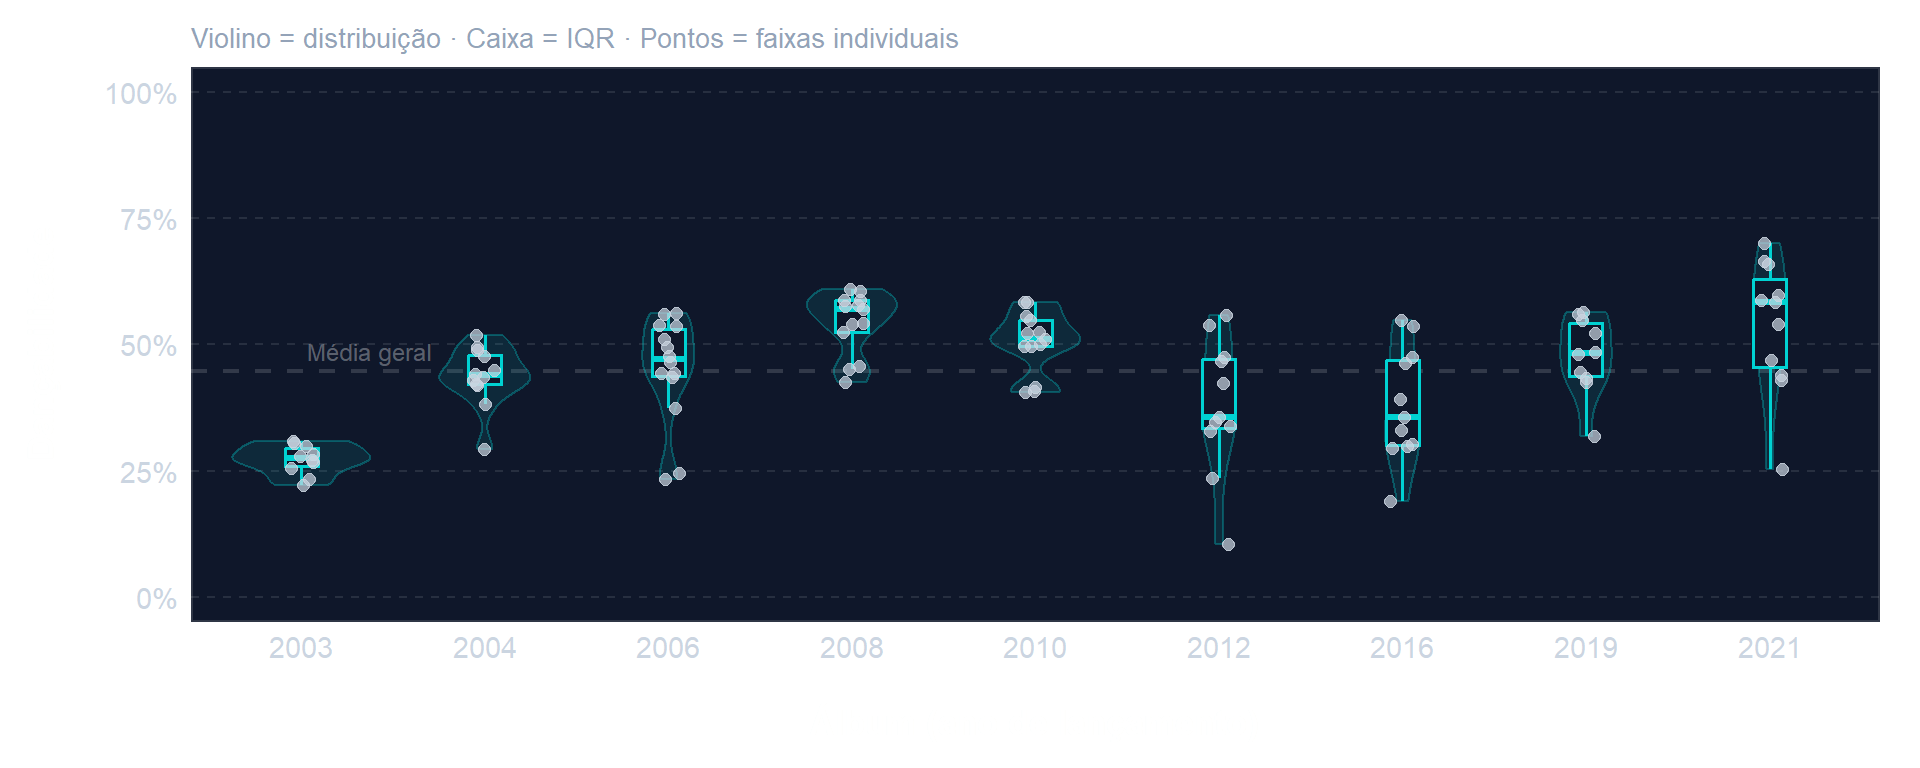
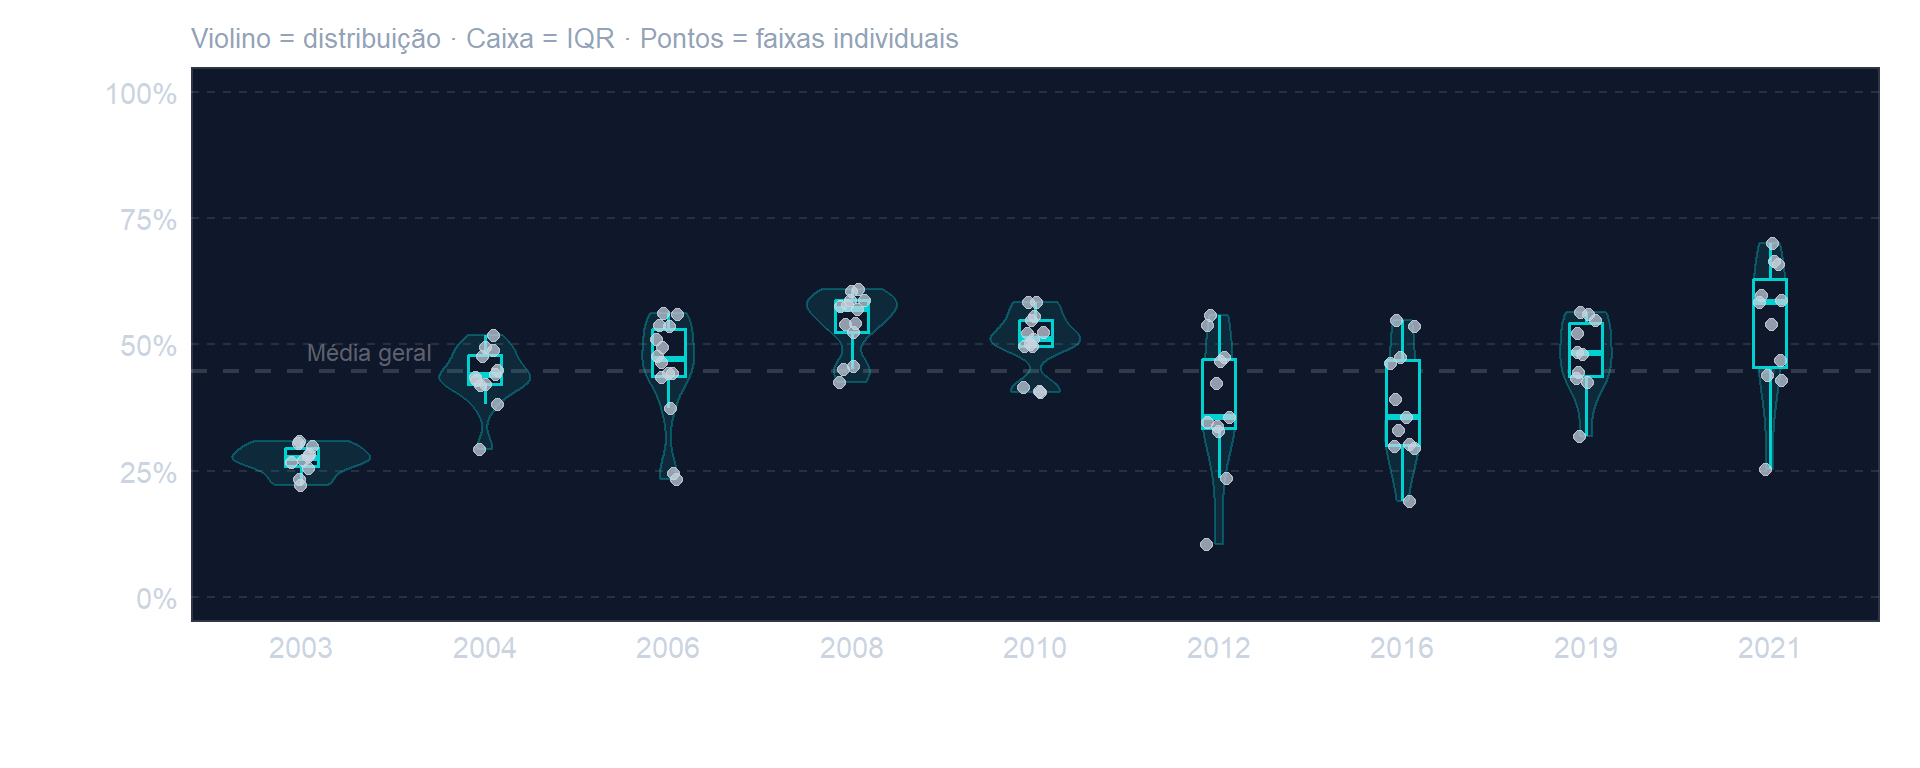
Fix: Atualizando a apresentação

diff --git a/docs/index.html b/docs/index.html
@@ -1159,7 +1159,7 @@ Músicas por Álbum
 </div>
 <div style="display: grid; grid-template-columns: repeat(3, 1fr); gap: 8px; margin-bottom: 8px;">
 <div class="insight-box" style="margin: 0; line-height: 1.4; padding: 8px 12px; border-left-color: #22D3EE; font-size: 20px !important;">
-<p><strong style="color: #22D3EE;">Energia &amp; Valência</strong><br> Caem progressivamente — a banda ficou mais introspectiva.</p>
+<p><strong style="color: #22D3EE;">Valência</strong><br> cai e a energia segue elevada — mais introspectiva, ainda intensa.</p>
 </div>
 <div class="insight-box" style="margin: 0; line-height: 1.4; padding: 8px 12px; border-left-color: #00D2D2; font-size: 20px !important;">
 <p><strong style="color: #00D2D2;">Dançabilidade</strong><br> Cresce no Novo Auge — sofrência mais rítmica.</p>
@@ -1284,7 +1284,7 @@ Apostou em estruturas de discos <strong>muito parecidas</strong>, garantindo mud
 </li>
 <li class="fragment">
 <div>
-<strong>Diminuiu a intensidade média dos álbuns</strong>, movimento associado a um <span class="hl">reforço da sua marca emo</span>, retomando a origem da banda com maturidade;
+<strong>Reduziu a valência média dos álbuns</strong>, mantendo a intensidade, movimento associado a um <span class="hl">reforço da sua marca emo</span>, retomando a origem da banda com maturidade;
 </div>
 </li>
 <li class="fragment">
@@ -1294,7 +1294,7 @@ Manteve o BPM padrão, mas <strong>apostou em uma versão mais dançável</stron
 </li>
 <li class="fragment">
 <div>
-O <strong>DNA Sonoro</strong> revela uma queda consistente em Energia e Valência nos álbuns recentes, enquanto a Dançabilidade cresce. A sofrência agora <span class="hl">arrasta os pés</span>.
+O <strong>DNA Sonoro</strong> revela uma queda consistente na Valência dos álbuns recentes, com Energia ainda elevada, enquanto a Dançabilidade cresce. A sofrência agora <span class="hl">arrasta os pés</span>.
 </div>
 </li>
 </ul>
